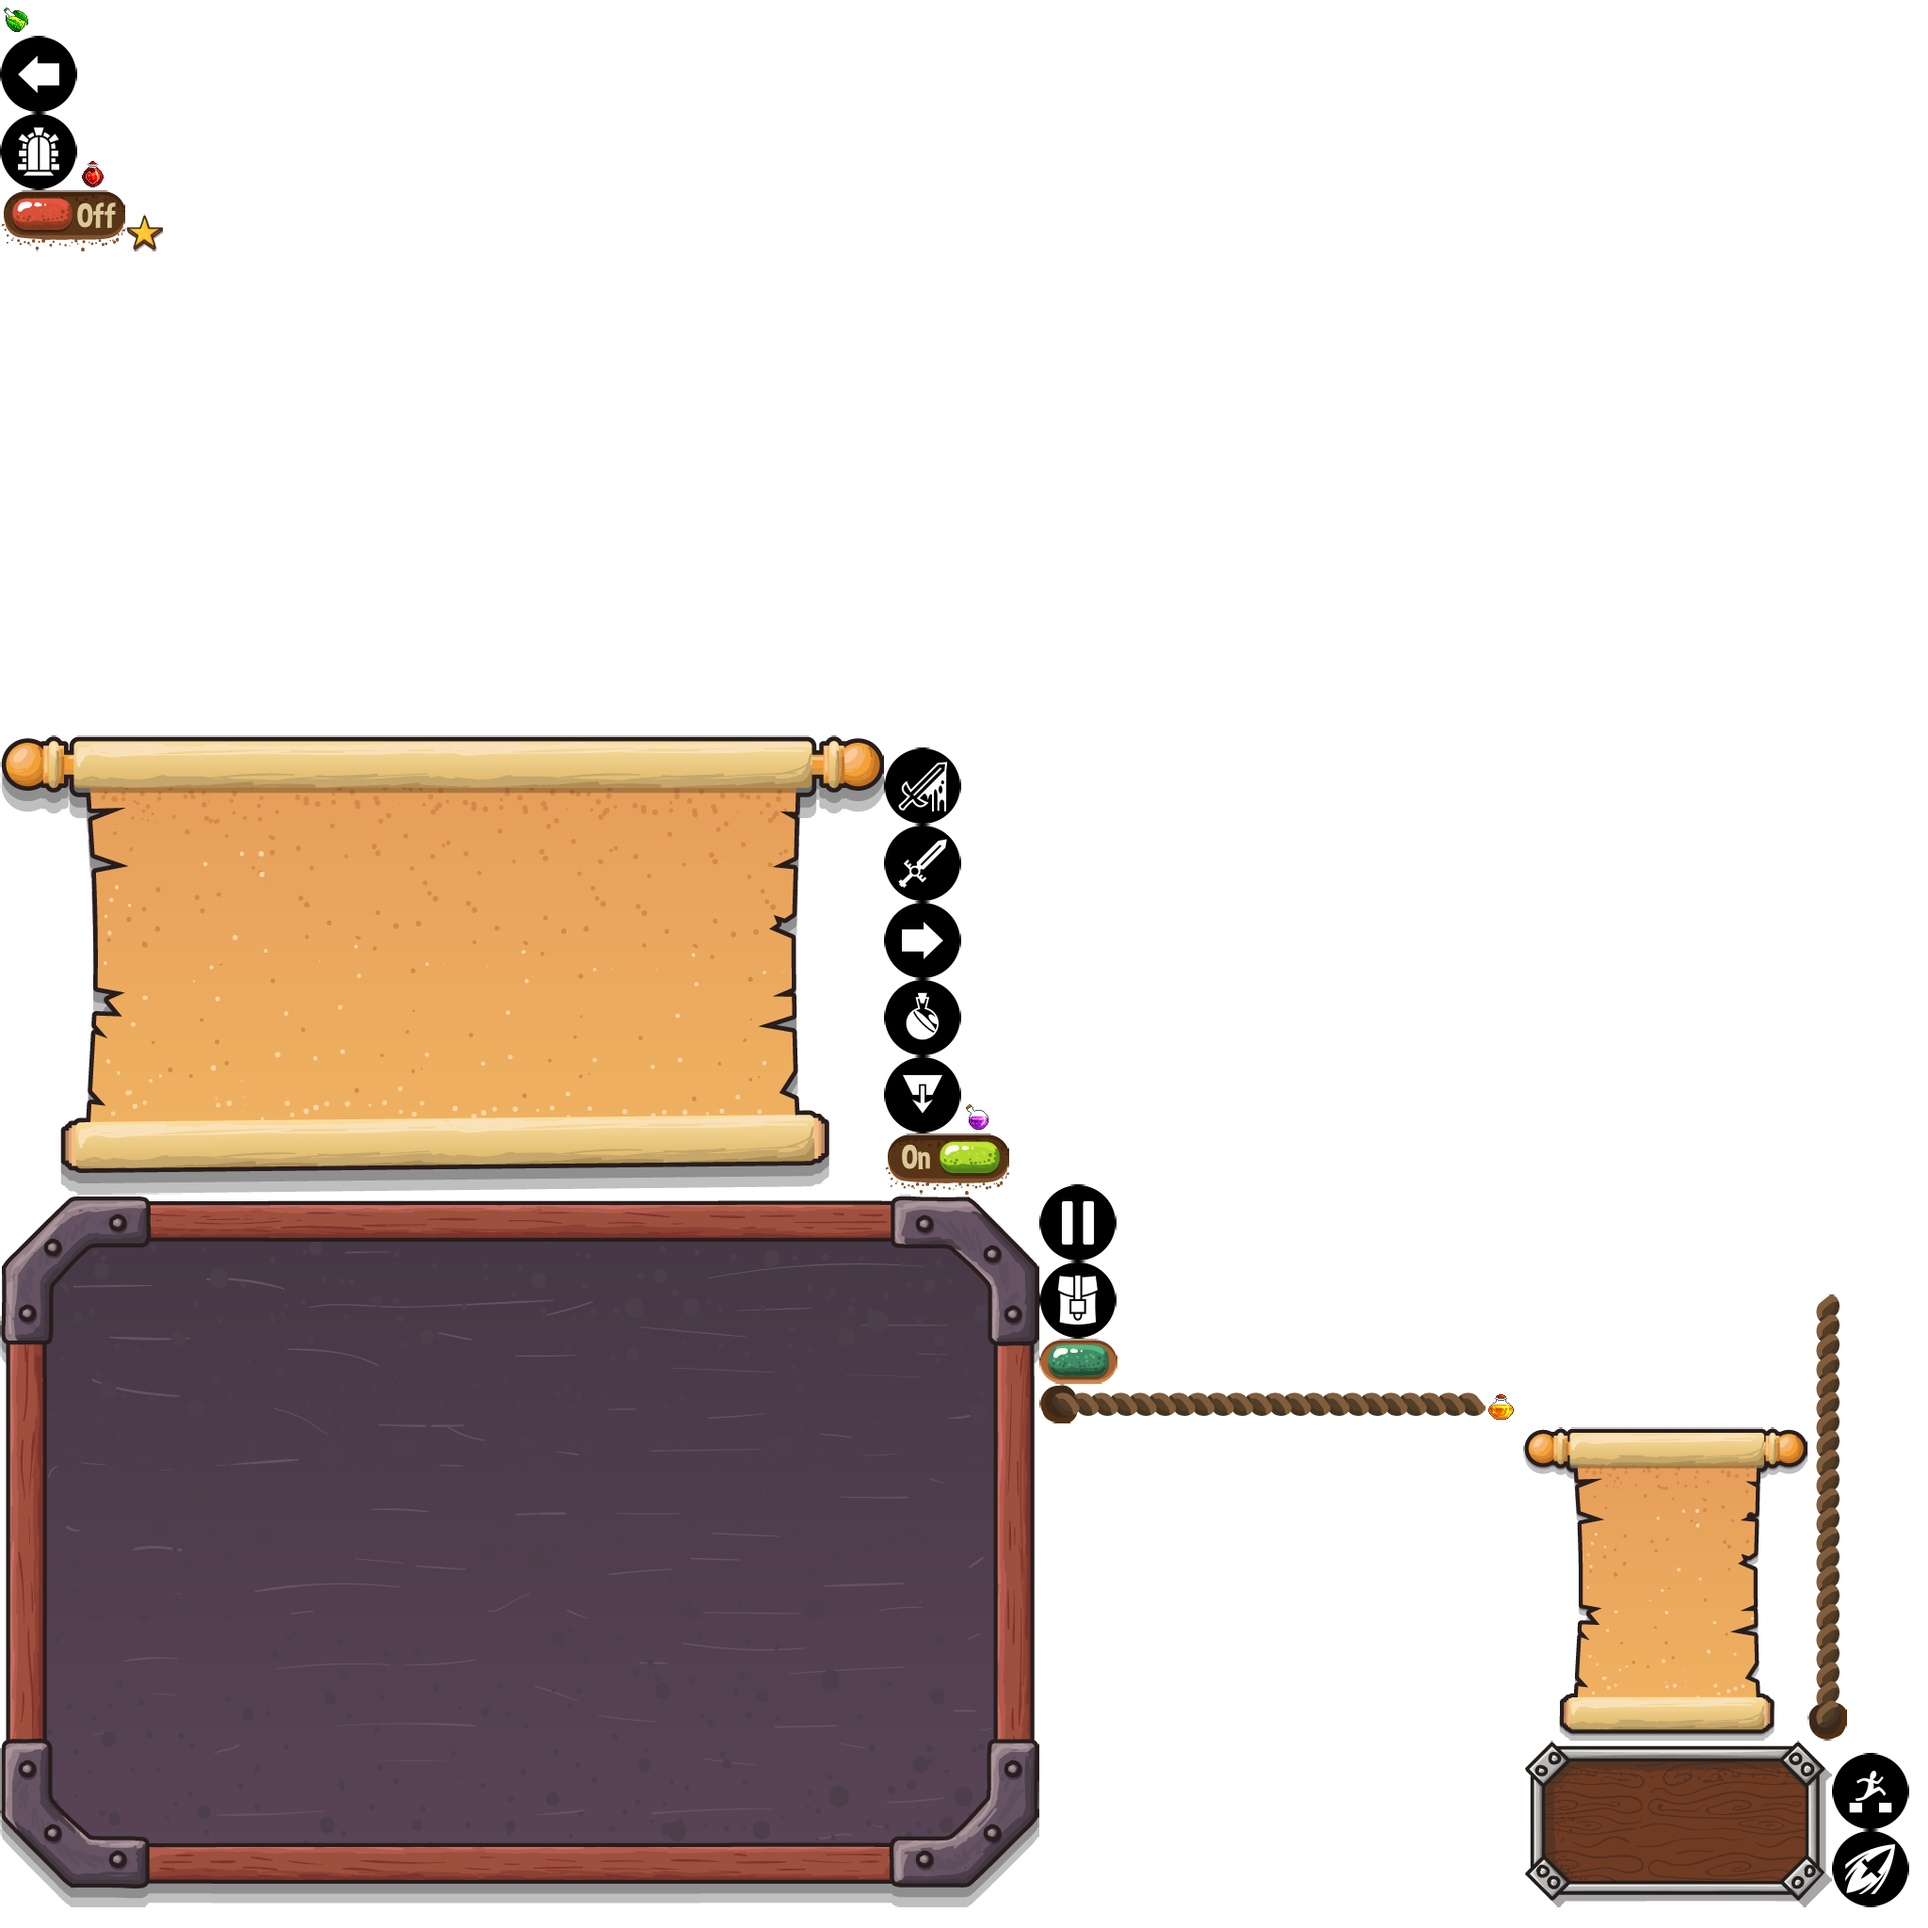
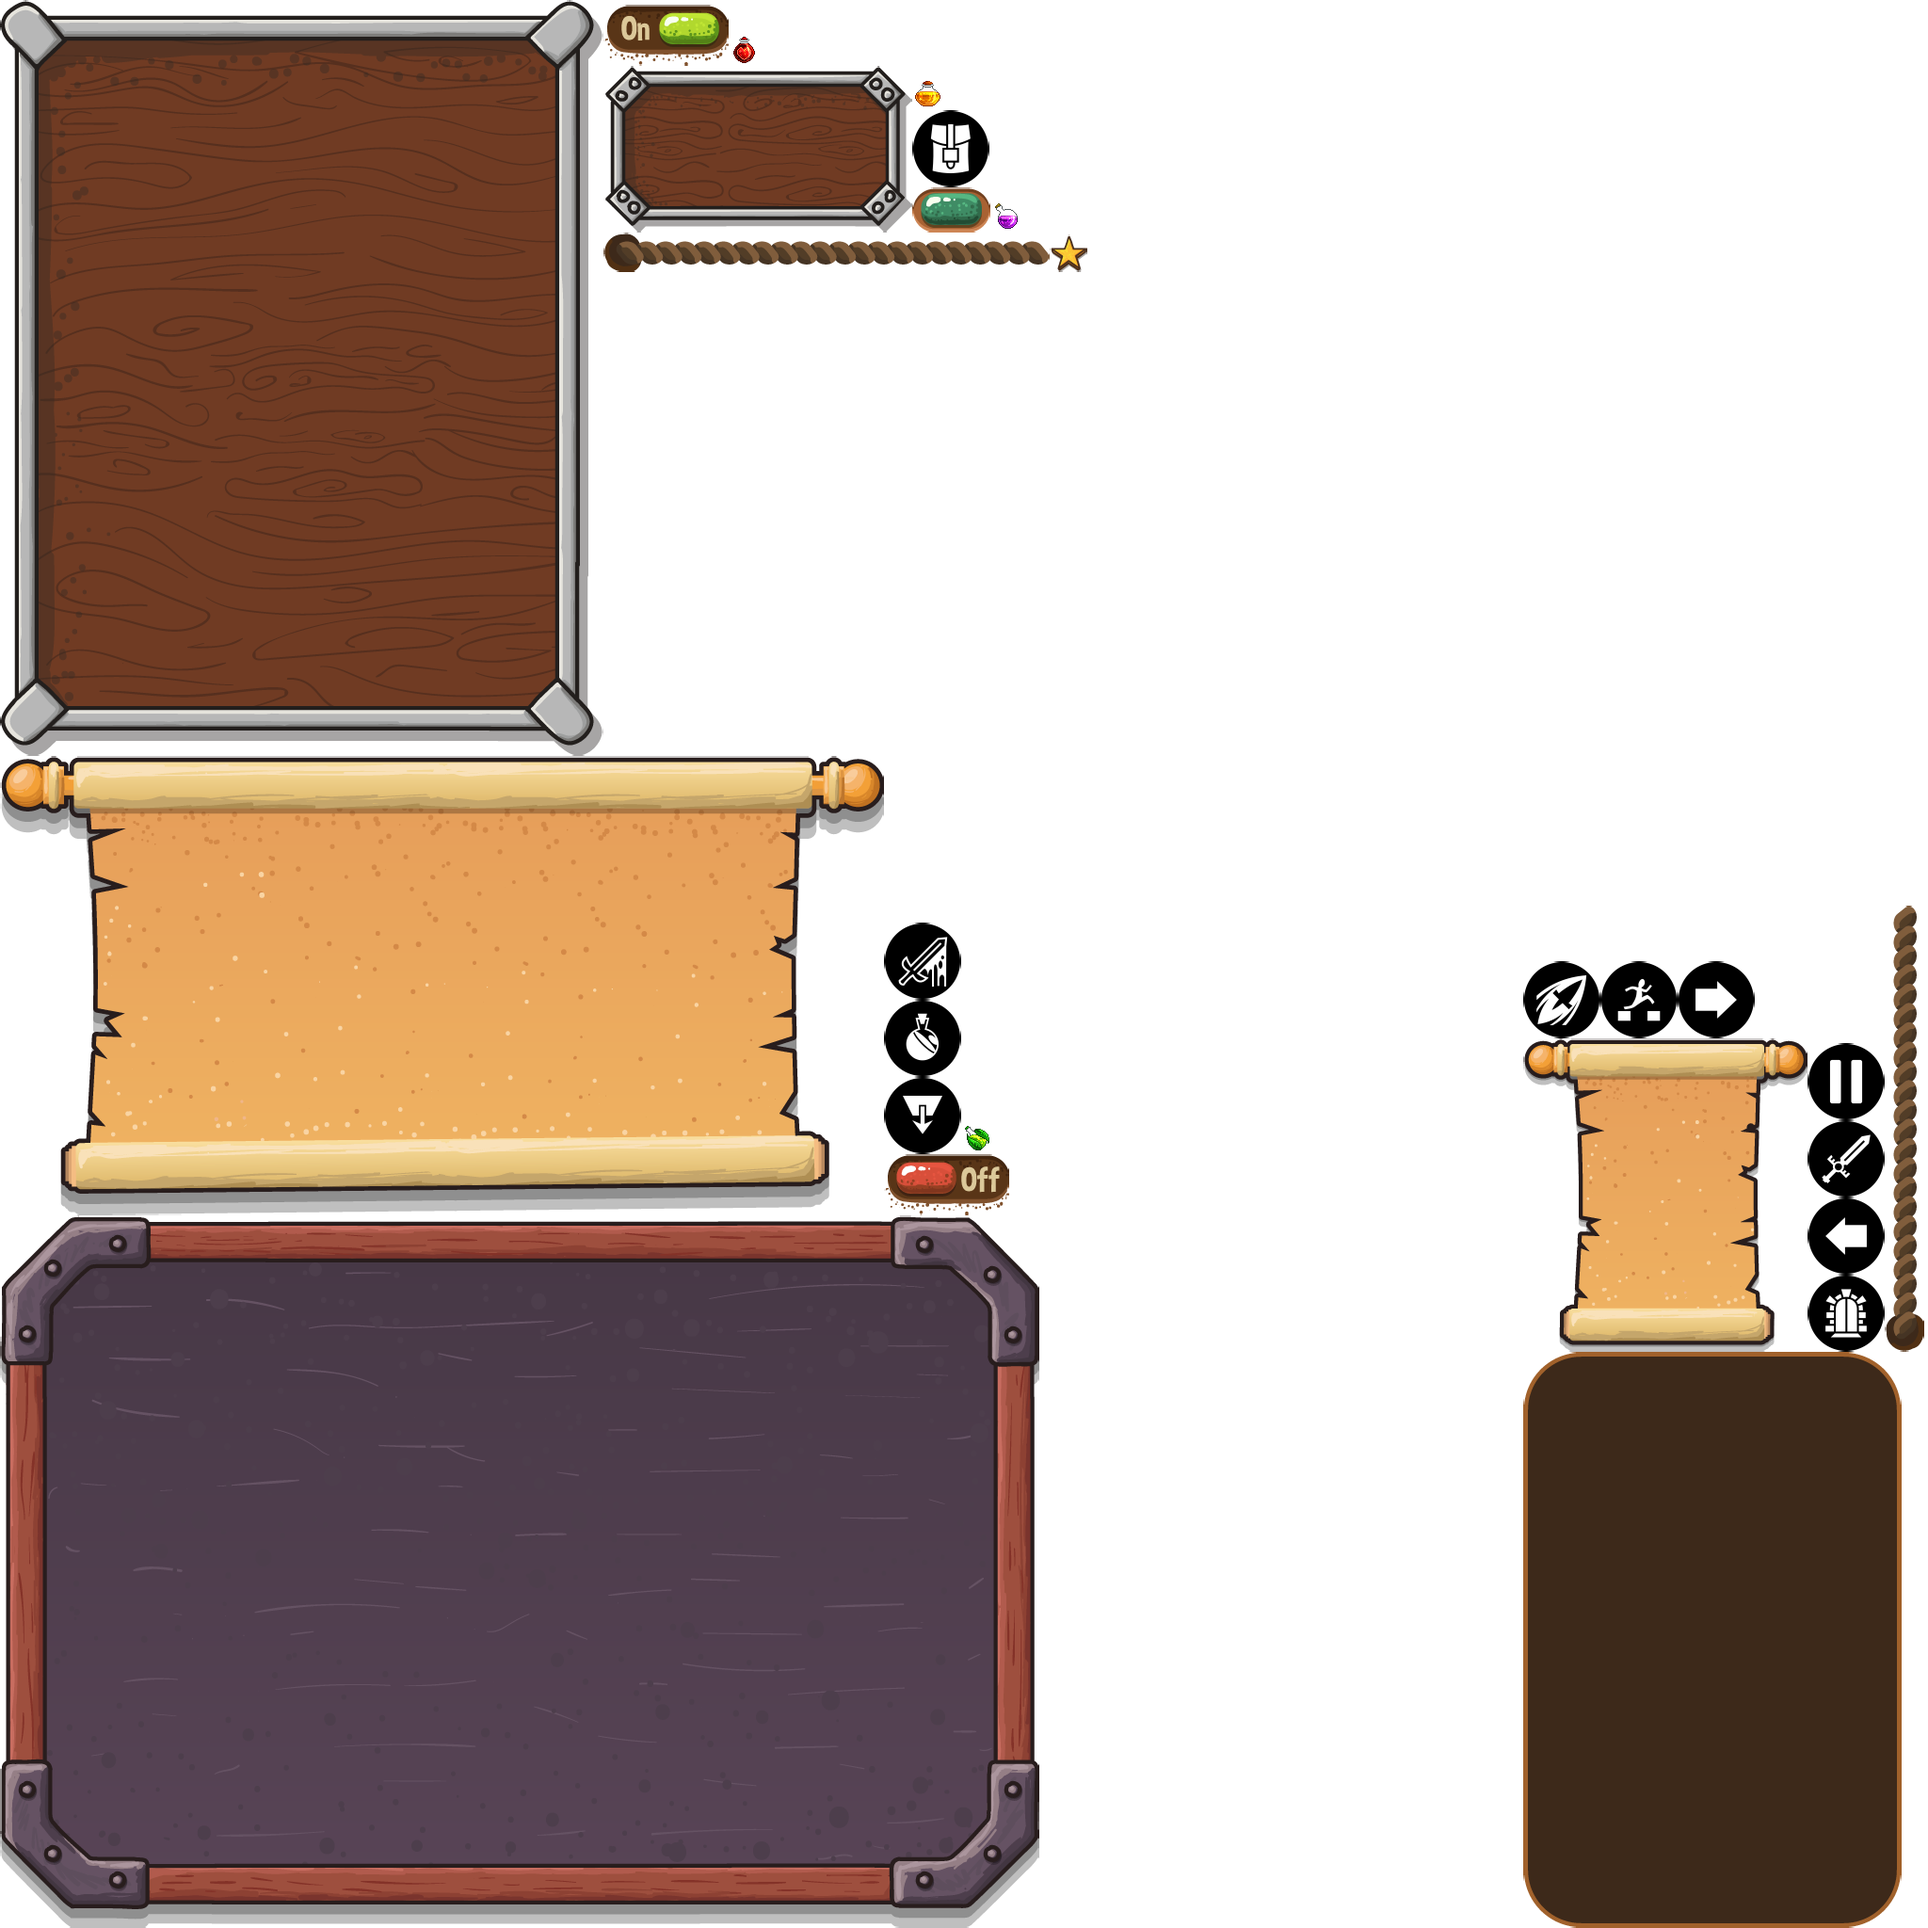
Tutorial look and feel

diff --git a/core/src/main/java/com/axehigh/platformer/ecs/systems/TutorialSystem.java b/core/src/main/java/com/axehigh/platformer/ecs/systems/TutorialSystem.java
@@ -1,6 +1,5 @@
 package com.axehigh.platformer.ecs.systems;
 
-import com.axehigh.platformer.GameConstants;
 import com.axehigh.platformer.ecs.components.CollisionComponent;
 import com.axehigh.platformer.ecs.components.PlayerComponent;
 import com.axehigh.platformer.ecs.components.TransformComponent;
@@ -22,6 +21,7 @@ import com.badlogic.gdx.scenes.scene2d.utils.Drawable;
 import com.badlogic.gdx.scenes.scene2d.utils.TextureRegionDrawable;
 
 import static com.axehigh.platformer.GameConstants.TutorialFontScale;
+import static com.axehigh.platformer.GameConstants.UI_PANEL_ALPHA;
 import static com.axehigh.platformer.ecs.components.Mappers.COLLISION;
 import static com.axehigh.platformer.ecs.components.Mappers.TUTORIAL;
 
@@ -61,7 +61,23 @@ public class TutorialSystem extends IteratingSystem {
             f = new BitmapFont();
         }
         this.font = f;
-        this.panelDrawable = (TextureRegionDrawable) skin.getDrawable("table");
+        TextureRegionDrawable drawable = null;
+        try {
+            Drawable d = skin.getDrawable("table_tall_border");
+            if (d instanceof TextureRegionDrawable) {
+                drawable = (TextureRegionDrawable) d;
+            }
+        } catch (Exception ignored) {}
+        if (drawable == null) {
+            drawable = (TextureRegionDrawable) skin.getDrawable("scroll_large");
+        }
+        if (drawable == null) {
+            drawable = (TextureRegionDrawable) skin.getDrawable("scroll");
+        }
+        if (drawable == null) {
+            drawable = (TextureRegionDrawable) skin.getDrawable("table");
+        }
+        this.panelDrawable = drawable;
     }
 
     public void setUnitScale(float unitScale) {
@@ -99,8 +115,8 @@ public class TutorialSystem extends IteratingSystem {
                         font.getData().setScale(TutorialFontScale);
                         layout.setText(font, tutorial.text);
 
-                        float padX = 28f;
-                        float padY = 20f;
+                        float padX = 64f;
+                        float padY = 36f;
 
                         // Resolve inline icon from the highlight keyword: the same skin drawable the
                         // touch controller uses, so the tooltip text maps 1:1 to the button to press.
@@ -128,7 +144,7 @@ public class TutorialSystem extends IteratingSystem {
                         float panelY = drawY;
 
                         if (panelDrawable != null) {
-                            batch.setColor(1f, 1f, 1f, GameConstants.UI_PANEL_ALPHA);
+                            batch.setColor(1f, 1f, 1f, UI_PANEL_ALPHA);
                             panelDrawable.draw(batch, panelX, panelY, boxWidth, boxHeight);
                             batch.setColor(Color.WHITE);
                         }

diff --git a/core/src/test/java/com/axehigh/platformer/ecs/systems/TutorialSystemTest.java b/core/src/test/java/com/axehigh/platformer/ecs/systems/TutorialSystemTest.java
@@ -49,8 +49,7 @@ public class TutorialSystemTest extends SystemTestBase {
         pageRegions.add(new TextureRegion());
         BitmapFont font = new BitmapFont(fontData, pageRegions, true);
         skin.add("edgeofgalaxy", font);
-        // Registered under Drawable.class so skin.getDrawable("table") resolves it; Skin keys
-        // resources by the registered type class and getDrawable() looks up under Drawable.class.
+        skin.add("scroll_large", new TextureRegionDrawable(new TextureRegion()), Drawable.class);
         skin.add("table", new TextureRegionDrawable(new TextureRegion()), Drawable.class);
 
         system = new TutorialSystem(batch, camera, skin, 0);
